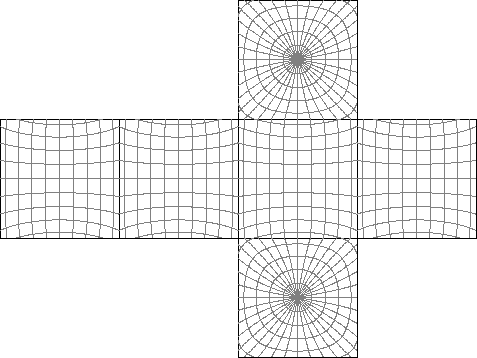
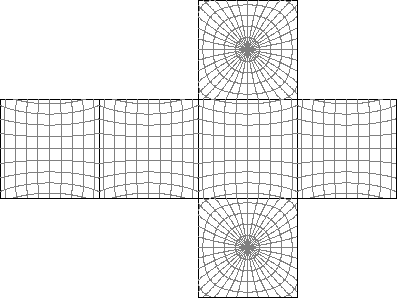
Smaller.

Changed region(s): [[0.0, 0.0, 1.0, 1.0]]

diff --git a/examples/grid.rb b/examples/grid.rb
@@ -7,7 +7,7 @@ require 'chunky_png'
 # it's compact and hopefully clear.
 
 # The size of each cube face, and some colours:
-size = 149
+size = 99
 colour = ChunkyPNG::Color.html_color(:grey)
 background = ChunkyPNG::Color::WHITE
 face_border = ChunkyPNG::Color::BLACK
